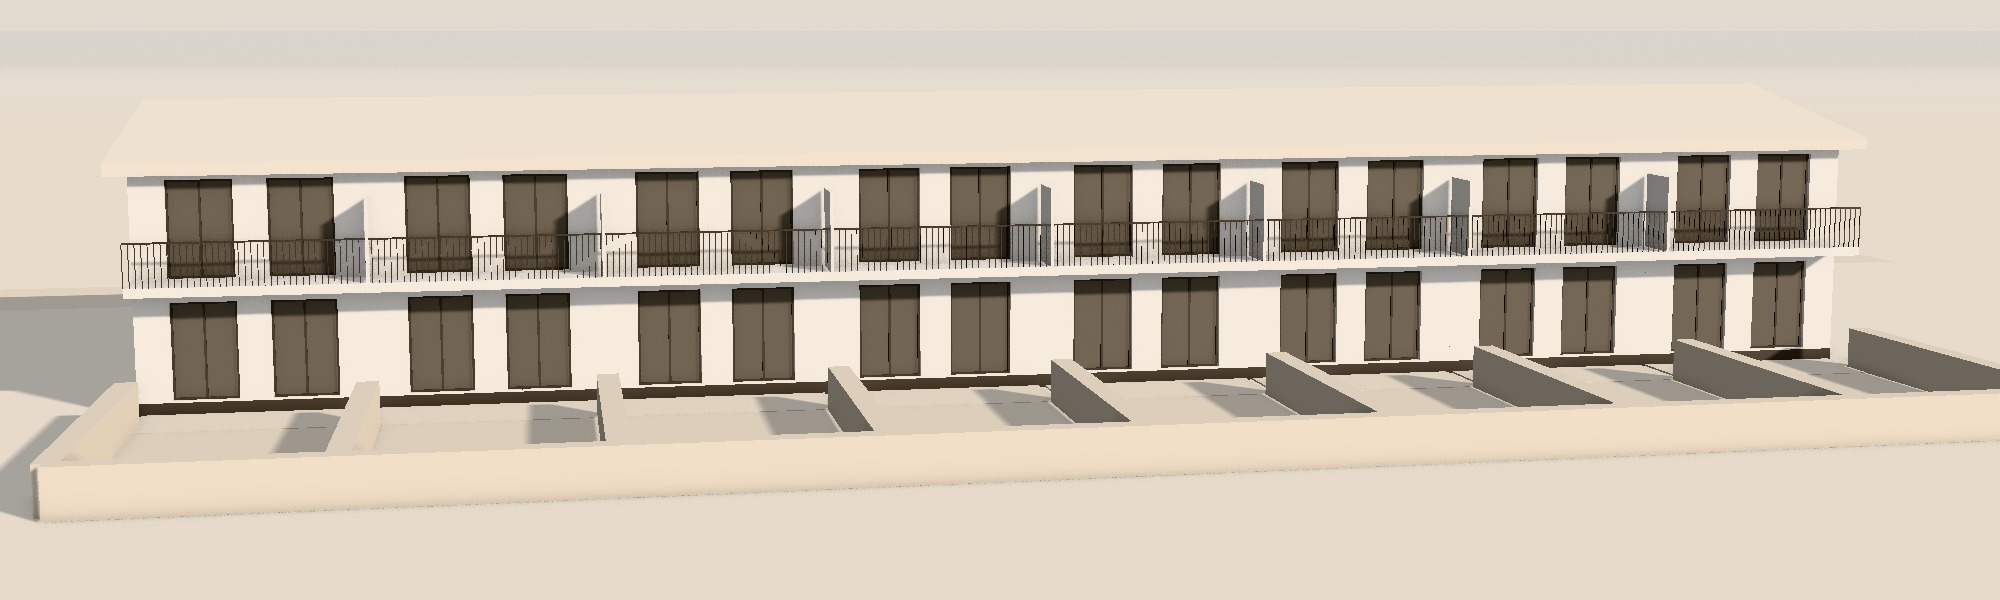
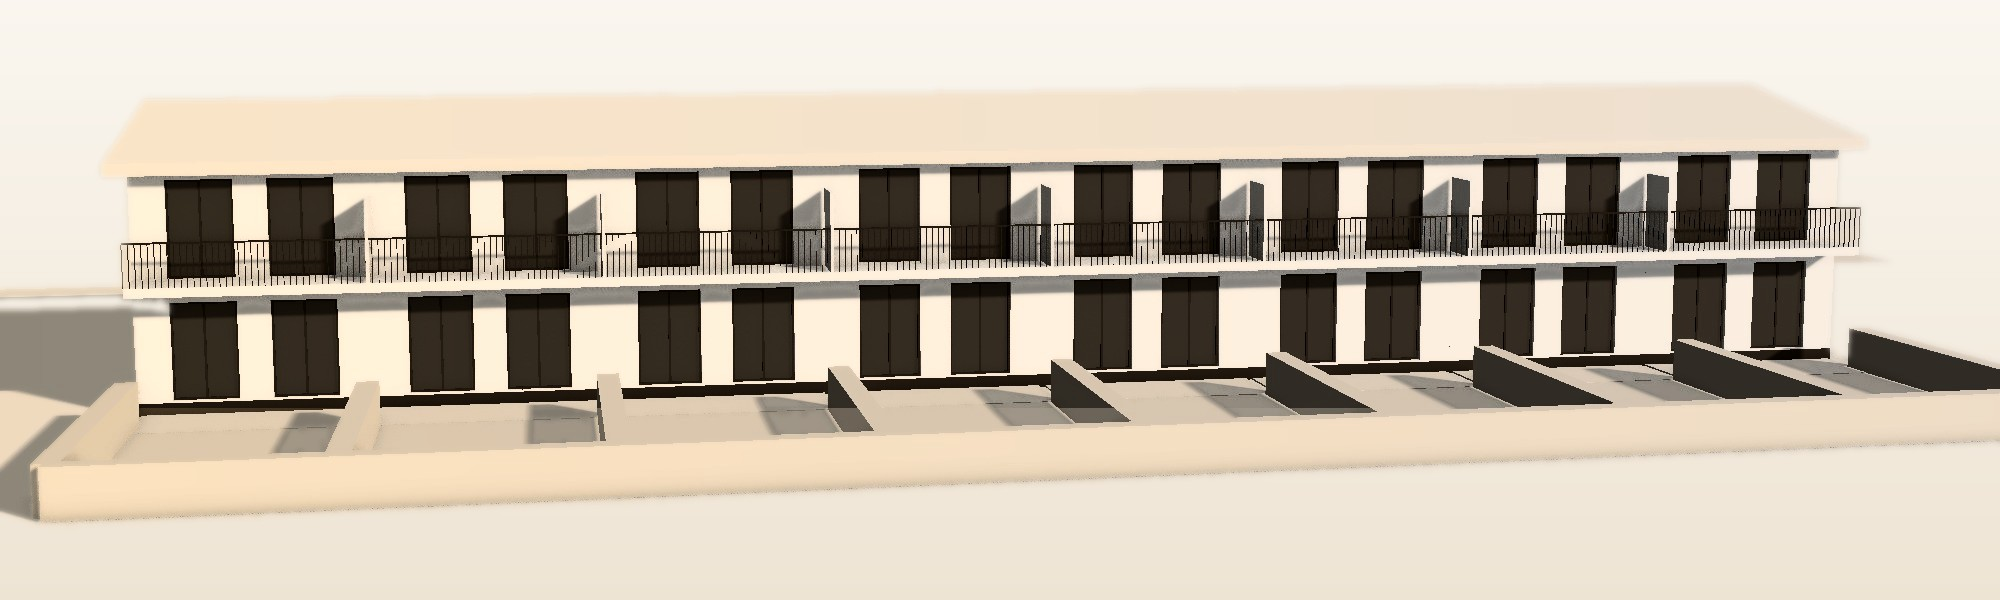
Metelka v6: rozpracované světlo makety a výhledy (archiv před v7)

diff --git a/src/index.html b/src/index.html
@@ -27,7 +27,7 @@
   </ul>
 </section>
 
-<section class="sekce" id="vyber" aria-labelledby="h-vyber" data-vyber>
+<section class="sekce sekce-vyber" id="vyber" aria-labelledby="h-vyber" data-vyber>
   <div class="obal">
     <div class="hlava-sekce">
       <div><span class="stitek">32 bytů 2+kk · dva domy</span><h2 id="h-vyber" class="h2">Vyberte si dům, patro<br>a&nbsp;<em>svou stranu světla</em>.</h2></div>
@@ -43,19 +43,19 @@
     </div>
     <div class="karty">
       <a class="karta vybrana" data-p="prizemi" href="{{ url('byty') }}#prizemi">
-        <div class="foto">{{ img('v6/maketa-zahradky.jpg', 'Bílá maketa domu ze strany zahrádek: přízemní byty s vlastními zahrádkami, nad nimi balkony patra', sizes='(min-width: 1100px) 25vw, (min-width: 900px) 46vw, 100vw') }}<span class="ilu sklo">Maketa podle projektu</span></div>
+        <div class="foto">{{ img('v6/vyhled-zahrada.jpg', 'Jídelní stůl u francouzského okna s výhledem do zeleně – ilustrační vizualizace interiéru', sizes='(min-width: 1100px) 25vw, (min-width: 900px) 46vw, 100vw') }}<span class="ilu sklo">Ilustrační vizualizace · standard investora</span></div>
         <div class="tx"><span class="stitek">Přízemí · 16 bytů</span><h3 class="serif">2+kk a&nbsp;vlastní <em>zahrada</em></h3>
           <dl><dt>Byt</dt><dd>47,21 m²</dd><dt>Zahrádka</dt><dd>52–55 m²</dd><dt>Světlá výška</dt><dd>2,5 m</dd><dt>Za m² bytu</dt><dd>116 289 Kč</dd></dl>
           <span class="sipka">Byty v přízemí</span></div>
       </a>
       <a class="karta" data-p="patro" href="{{ url('byty') }}#patro">
-        <div class="foto">{{ img('v6/maketa-balkony.jpg', 'Bílá maketa domu: byty v patře s průběžným balkonem a černým zábradlím', sizes='(min-width: 1100px) 25vw, (min-width: 900px) 46vw, 100vw') }}<span class="ilu sklo">Maketa podle projektu</span></div>
+        <div class="foto">{{ img('v6/vyhled-balkon.jpg', 'Křeslo u velkého okna s výhledem do korun stromů – ilustrační vizualizace interiéru', sizes='(min-width: 1100px) 25vw, (min-width: 900px) 46vw, 100vw') }}<span class="ilu sklo">Ilustrační vizualizace · standard investora</span></div>
         <div class="tx"><span class="stitek">Patro · 16 bytů</span><h3 class="serif">2+kk a&nbsp;vlastní <em>balkon</em></h3>
           <dl><dt>Byt</dt><dd>47,21 m²</dd><dt>Balkon</dt><dd>7,80–8,25 m²</dd><dt>Šikmé stropy</dt><dd>2,11–3,22 m</dd><dt>Za m² bytu</dt><dd>105 698 Kč</dd></dl>
           <span class="sipka">Byty v patře</span></div>
       </a>
     </div>
-    <p class="pozn">Dům na obrázcích je bílá maketa podle projektové dokumentace, interiéry jsou ilustrační vizualizace standardu investora. Ke každému bytu sklepní kóje 3&nbsp;m² a&nbsp;parkovací stání. Ceny podle ceníku ze 16. 9. 2026.</p>
+    <p class="pozn">Interiéry jsou ilustrační vizualizace standardu investora, polohu bytů na bílé maketě domu najdete na stránce Byty. Ke každému bytu sklepní kóje 3&nbsp;m² a&nbsp;parkovací stání. Ceny podle ceníku ze 16. 9. 2026.</p>
   </div>
 </section>
 

diff --git a/static/css/v6.css b/static/css/v6.css
@@ -47,6 +47,9 @@ button { cursor: pointer; }
 .obal { padding: 0 var(--okraj); max-width: 1536px; margin: 0 auto; }
 .sekce { padding: var(--sekce) 0; }
 .sekce-tesna { padding: clamp(48px, 6vw, 88px) 0; }
+.sekce-vyber { padding-top: clamp(48px, 5vw, 72px); }
+.sekce-vyber .h2 { font-size: clamp(42px, 6vw, 96px); line-height: .98; }
+.sekce-vyber .hlava-sekce { margin-bottom: clamp(28px, 3vw, 44px); }
 .pisek { background: var(--krem2); }
 .hlava-sekce { display: flex; align-items: end; justify-content: space-between; gap: 32px 48px; margin-bottom: clamp(32px, 4vw, 56px); }
 .hlava-sekce .stitek { margin-bottom: 14px; }
@@ -231,7 +234,7 @@ svg.rez { display: block; width: 100%; height: auto; color: var(--text); }
 /* Byty: maketa na fasádě */
 .byty-hlava { display: flex; justify-content: space-between; align-items: end; gap: 24px 48px; padding-top: clamp(20px, 4vw, 56px); padding-bottom: 28px; }
 .byty-hlava .h1 em { color: var(--zlata-t); }
-.fasada-obal { position: relative; margin: 0 var(--okraj); border-radius: 28px; background: linear-gradient(180deg, #efe8dc, #ebe3d6); overflow: hidden; }
+.fasada-obal { position: relative; margin: 0 var(--okraj); border-radius: 28px; background: #eee4d4; overflow: hidden; box-shadow: 0 1px 0 rgba(27, 24, 21, .04), 0 24px 60px -30px rgba(80, 58, 30, .35); }
 .fasada-posun { overflow-x: auto; scrollbar-width: none; }
 .fasada-posun::-webkit-scrollbar { display: none; }
 .platno { position: relative; min-width: 860px; }
@@ -275,7 +278,7 @@ a.radek::after { content: '→'; color: var(--zlata-t); }
 .kb-cena { padding: 20px 0; border-top: 1px solid var(--linka); border-bottom: 1px solid var(--linka); margin-bottom: 22px; }
 .kb-cena b { display: block; font: 300 clamp(34px, 3vw, 44px)/1.05 var(--serif); font-variation-settings: 'opsz' 72; }
 .kb-cena span { font-size: 13.5px; color: var(--text2); }
-.kb-fasada { position: relative; border-radius: 26px; overflow: hidden; background: linear-gradient(180deg, #efe8dc, #ebe3d6); }
+.kb-fasada { position: relative; border-radius: 26px; overflow: hidden; background: linear-gradient(180deg, #faf6ef, #eee4d4); }
 .kb-fasada .platno { min-width: 0; width: 170%; margin-left: var(--posun, 0); }
 .kb-fasada .ilu { left: 14px; top: 14px; }
 .kb-fasada .znacka { position: absolute; transform: translate(-50%, -50%); z-index: 2; padding: 8px 12px; border-radius: 999px; font-size: 13px; white-space: nowrap; }

diff --git a/tools/maketa_svetlo.py b/tools/maketa_svetlo.py
@@ -1,0 +1,56 @@
+#!/usr/bin/env python3
+"""Maketa na stránce Byty: teplé boční světlo, hlubší stíny, tmavší okna, světlejší pozadí.
+   Geometrie zůstává (pozice bytů v _v6k.html sedí): python3 tools/maketa_svetlo.py"""
+from pathlib import Path
+import numpy as np
+from PIL import Image, ImageDraw, ImageFilter
+R = Path(__file__).resolve().parent.parent
+im = Image.open(R / 'tools/maketa-fasada-orig.jpg').convert('RGB')
+a = np.asarray(im).astype(np.float32) / 255
+h, w, _ = a.shape
+L = a @ np.array([.299, .587, .114], np.float32)
+
+# pozadí: barva stolu/oblohy spojená s okrajem obrázku
+c = im.copy()
+for p in [(0, 0), (w - 1, 0), (0, h - 1), (w - 1, h - 1), (w // 2, 0), (w // 2, h - 1), (5, h // 2), (w - 5, h // 2), (w // 4, h - 1), (3 * w // 4, h - 1), (w // 4, 0), (3 * w // 4, 0)]:
+    if c.getpixel(p) != (255, 0, 255): ImageDraw.floodfill(c, p, (255, 0, 255), thresh=16)
+mm = (np.asarray(c) == [255, 0, 255]).all(2)
+o = np.asarray(im).astype(np.int16)
+strecha = (o[..., 0] >= 235) & (o[..., 1] >= 223)   # první světlá plocha shora = střecha nebo zeď
+for xx in range(w):   # vše nad hranou střechy je pozadí
+    ys = np.flatnonzero(strecha[:, xx])
+    if len(ys) and ys[0] < 200: mm[:max(ys[0] - 1, 0), xx] = True
+mm[:84] = True   # pruh hrany stolu nad střechou
+m = Image.fromarray((mm * 255).astype(np.uint8))
+pozadi = np.asarray(m.filter(ImageFilter.GaussianBlur(3))).astype(np.float32)[..., None] / 255
+
+# okna a zábradlí: tmavé pixely ztmavit a ochladit do bronzové
+okno = np.clip((.62 - L) / .2, 0, 1)
+okno[:140] = 0; okno[408:] = 0   # jen pás oken, ne stinné boky zídek
+okno = okno[..., None]
+tmave = a * .5 + np.array([-.02, -.025, -.03], np.float32)
+a = a * (1 - okno) + np.clip(tmave, 0, 1) * okno
+
+# kontrast světlých ploch: zdi světlejší, stíny hlubší (S-křivka kolem 0.86)
+L2 = a @ np.array([.299, .587, .114], np.float32)
+k = np.where(L2 > .6, .86 + (L2 - .86) * 1.5, L2)
+k = np.clip(k, 0, 1)
+zisk = (k / np.maximum(L2, 1e-3)).astype(np.float32)
+from scipy.ndimage import gaussian_filter
+zisk = gaussian_filter(zisk, 2)
+a = np.clip(a * zisk[..., None], 0, 1)
+
+# teplé boční světlo zleva, zprava jemně do stínu
+x = np.linspace(0, 1, w, dtype=np.float32)[None, :, None]
+teplo = np.array([1.035, 1.0, .94], np.float32)
+a = a * (teplo * (1 - x) + np.array([.975, .975, .985], np.float32) * x)
+a = np.clip(a, 0, 1)
+
+# pozadí o tón světlejší, jemný gradient do písku
+y = np.linspace(0, 1, h, dtype=np.float32)[:, None, None]
+horni, dolni = np.array([250, 246, 239], np.float32) / 255, np.array([238, 228, 212], np.float32) / 255
+cil = horni * (1 - y) + dolni * y
+a = a * (1 - pozadi) + cil * pozadi
+
+Image.fromarray((a * 255).round().astype(np.uint8)).save(R / 'img/v6/maketa-fasada.jpg', quality=90)
+print('ok', w, h, 'pozadí', round(float(pozadi.mean()), 2))
